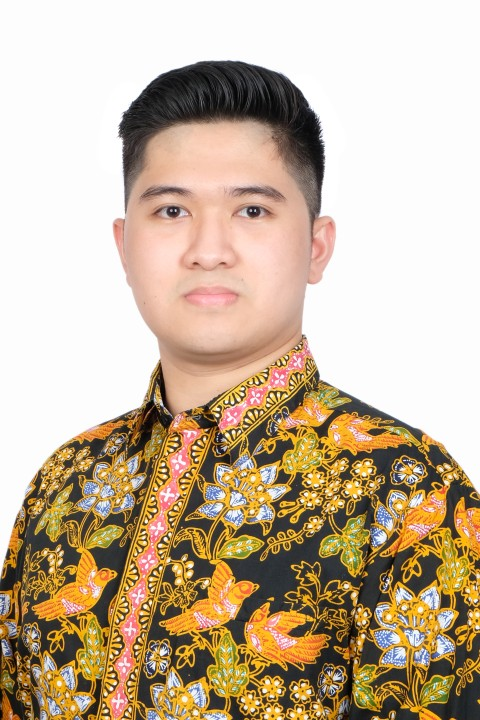
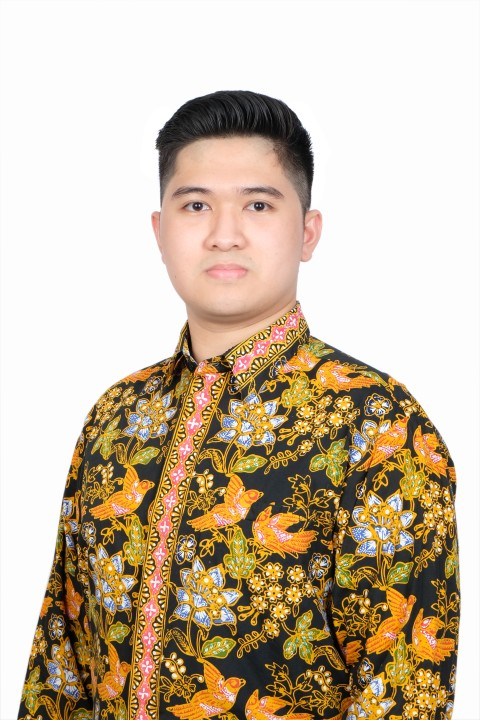
Ganti foto lagi

diff --git a/src/components/ProfileSection.js b/src/components/ProfileSection.js
@@ -90,8 +90,8 @@ function ProfileSection({ theme, themeChanging }) {
 
       <div
         style={{
-          width: "150px",
-          height: "150px",
+          width: "250px",
+          height: "250px",
           borderRadius: "50%",
           overflow: "hidden",
           margin: "0 auto 20px",
